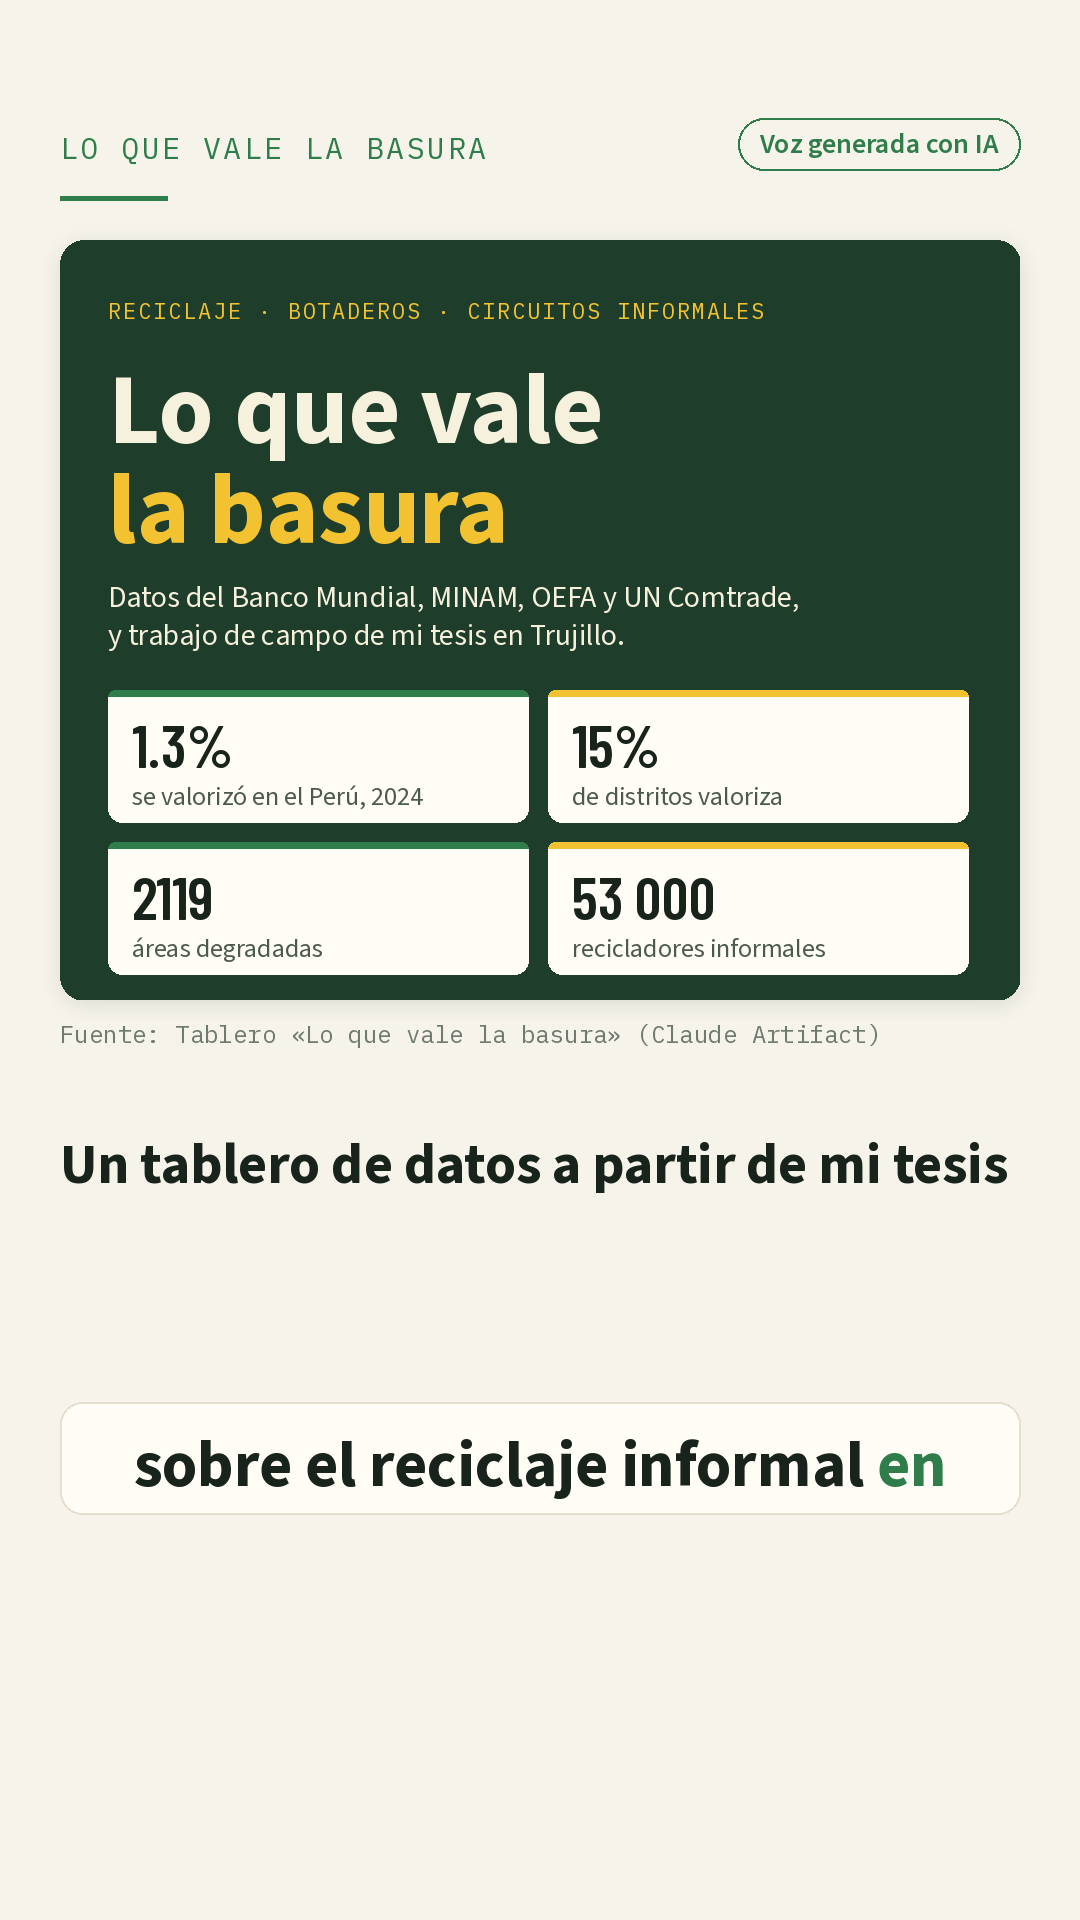
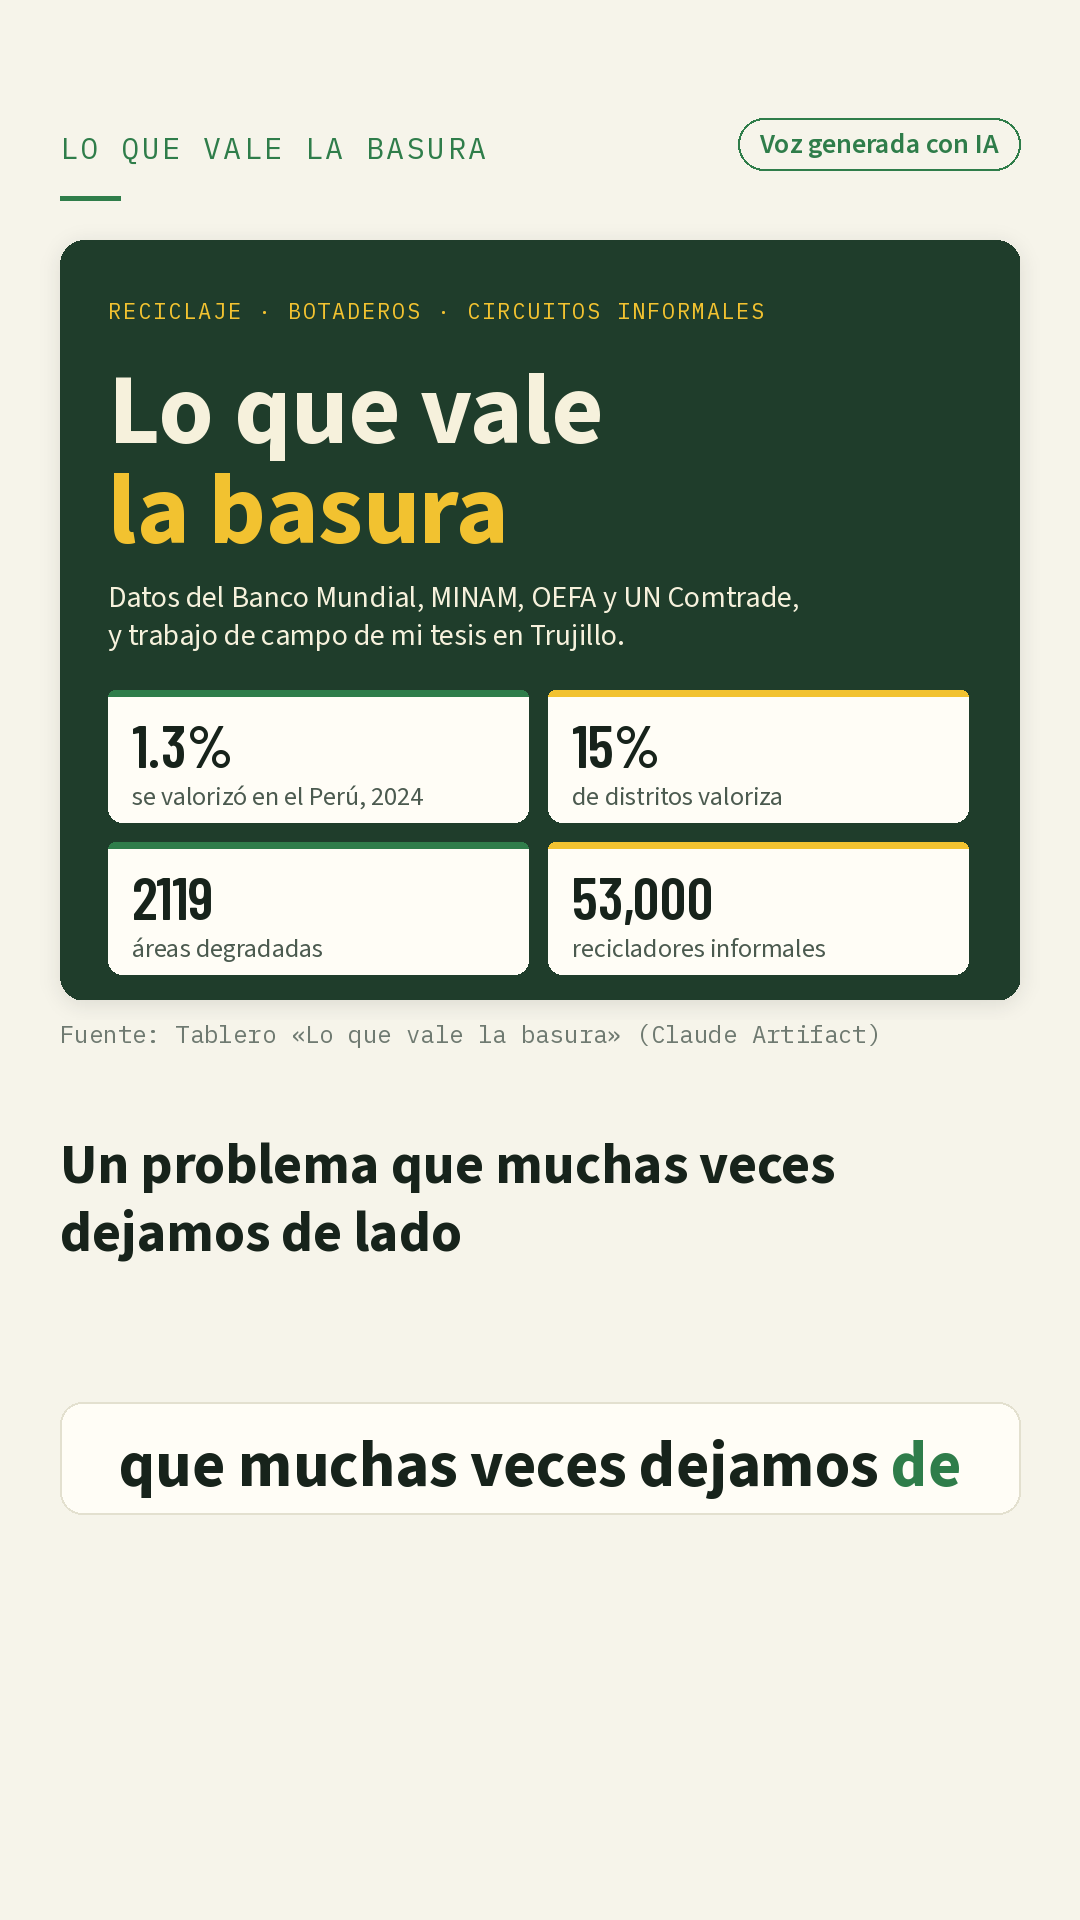
Reel: guion más breve en el orden del tablero, sin cortes al inicio de las frases, barras de generación mundial

Changed region(s): [[0.0611, 0.5938, 0.9472, 0.6562], [0.0917, 0.75, 0.8861, 0.7812], [0.5806, 0.4375, 0.6417, 0.5]]

diff --git a/reel/hacer_video.py b/reel/hacer_video.py
@@ -29,7 +29,7 @@ FUENTES = os.path.join(AQUI, "recursos", "fuentes")
 
 ANCHO, ALTO, FPS = 1080, 1920, 30
 MARGEN = 60
-CIERRE = 3.5  # segundos de la tarjeta final después de la narración
+CIERRE = 5.5  # segundos de la tarjeta final después de la narración (el reel debe durar al menos 45 s)
 URL_TABLERO = "claude.ai/artifact/6bTVbbocVNX5enTreJr638"
 
 # Colores del tablero (tema claro)
@@ -229,6 +229,7 @@ class Visuales:
         self.top_bot = sorted(bot.items(), key=lambda kv: -kv[1])[:3]
         self.bot_total = int(sum(bot.values()))
         self.peru_pais = paises["PER"]
+        self.mundo_reg = {r["region"]: r for r in leer("mundo_regiones")}
         hierro = [r for r in leer("precios_mensuales") if r["material"] == "Hierro y acero"]
         self.hierro = sorted(((r["mes"], float(r["usd_por_kg"]) * 1000) for r in hierro))
 
@@ -258,7 +259,7 @@ class Visuales:
                fill=mezclar(VERDE_OSCURO, CREMA, a))
         # Tarjetas de indicadores del tablero, una tras otra
         kpis = [("1.3%", "se valorizó en el Perú, 2024"), ("15%", "de distritos valoriza"),
-                ("2119", "áreas degradadas"), ("53 000", "recicladores informales")]
+                ("2119", "áreas degradadas"), ("53,000", "recicladores informales")]
         cw, ch, gap = (self.w - 96 - 24) // 2, 132, 20
         for i, (v, txt) in enumerate(kpis):
             b = suave((t - 0.9 - 0.35 * i) / 0.5)
@@ -320,6 +321,31 @@ class Visuales:
                               self.top_bot, lambda v: f"{v:.0f}", self.bot_max, f"{self.bot_max:.0f}")
         return img
 
+    def barras_generacion(self, t, dur):
+        img, d = self.lienzo()
+        self.titulo(d, "Basura que genera el mundo", "Millones de toneladas de basura municipal al año")
+        m = self.mundo_reg["Mundo"]
+        filas = [("2022 · estimación", float(m["generacion_2022_t"]) / 1e6, VERDE, False),
+                 ("2050 · proyección", float(m["generacion_2050_t"]) / 1e6, BARRA, True)]
+        maximo = filas[1][1]
+        for i, (txt, v, color, punteada) in enumerate(filas):
+            a = suave((t - 0.3 - 0.6 * i) / 1.4)
+            y = 220 + i * 230
+            d.text((32, y), txt, font=fuente("semi", 36), fill=TINTA)
+            largo = max(10, int((self.w - 64) * 0.72 * v / maximo * a))
+            d.rounded_rectangle((32, y + 60, 32 + largo, y + 150), radius=10, fill=color)
+            if punteada:  # la proyección se distingue del dato con rayas
+                for x in range(32 - 90, 32 + largo, 22):
+                    d.line([(max(32, x), y + 60 + max(0, 32 - x)), (min(32 + largo, x + 90), y + 150 - max(0, x + 90 - 32 - largo))],
+                           fill=PANEL, width=4)
+            d.text((32 + largo + 16, y + 70), f"{v * a:,.0f}", font=fuente("num", 64), fill=TINTA)
+        b = suave((t - 2.0) / 0.6)
+        if b > 0:
+            crece = float(m["crecimiento_2050_pct"])
+            d.text((32, 640), f"Se proyecta un {crece:.0f}% más hacia 2050.", font=fuente("semi", 32),
+                   fill=mezclar(PANEL, TINTA_2, b))
+        return img
+
     def barras_recicladores(self, t, dur):
         img, d = self.lienzo()
         self.titulo(d, "¿Quién recicla en el Perú?", "Personas que trabajan en el reciclaje")
@@ -332,7 +358,7 @@ class Visuales:
             d.text((32, y), txt, font=fuente("semi", 36), fill=TINTA)
             largo = int((self.w - 64) * 0.78 * v / maximo * a)
             d.rounded_rectangle((32, y + 60, 32 + max(10, largo), y + 150), radius=10, fill=color)
-            d.text((32 + max(10, largo) + 16, y + 70), f"{v * a:,.0f}".replace(",", " "), font=fuente("num", 64),
+            d.text((32 + max(10, largo) + 16, y + 70), f"{v * a:,.0f}", font=fuente("num", 64),
                    fill=TINTA)
         b = suave((t - 2.0) / 0.6)
         if b > 0:
@@ -504,13 +530,19 @@ def capa_textos(escena, alfa):
     if escena["fuente"]:
         d.text((MARGEN, Y_FUENTE), f"Fuente: {escena['fuente']}", font=fuente("mono", 24), fill=TENUE + (a,))
     if escena["cifra"]:
-        d.text((MARGEN, Y_CIFRA), escena["cifra"], font=fuente("num", 150), fill=TINTA + (a,))
+        tam = 150  # la cifra se achica si no cabe en el ancho
+        while tam > 70 and d.textlength(escena["cifra"], font=fuente("num", tam)) > ANCHO - 2 * MARGEN:
+            tam -= 6
+        d.text((MARGEN, Y_CIFRA + (150 - tam)), escena["cifra"], font=fuente("num", tam), fill=TINTA + (a,))
         y = Y_CIFRA + 165
         for linea in envolver(d, escena["etiqueta"], fuente("semi", 40), ANCHO - 2 * MARGEN)[:2]:
             d.text((MARGEN, y), linea, font=fuente("semi", 40), fill=TINTA_2 + (a,))
             y += 50
     elif escena["etiqueta"]:
-        d.text((MARGEN, Y_CIFRA + 40), escena["etiqueta"], font=fuente("negrita", 56), fill=TINTA + (a,))
+        y = Y_CIFRA + 40
+        for linea in envolver(d, escena["etiqueta"], fuente("negrita", 56), ANCHO - 2 * MARGEN)[:2]:
+            d.text((MARGEN, y), linea, font=fuente("negrita", 56), fill=TINTA + (a,))
+            y += 68
     return img
 
 
@@ -544,6 +576,9 @@ def main():
 
     guion = json.load(open("guion.json", encoding="utf-8"))
     escenas = json.load(open(f"{s}/escenas.json", encoding="utf-8"))
+    # Los textos en pantalla se toman del guion actual: se pueden corregir sin volver a generar la voz
+    for e, g in zip(escenas, guion["escenas"]):
+        e.update({k: g[k] for k in ("cifra", "etiqueta", "visual", "fuente")})
     reel_wav = f"{s}/reel.wav"
     dur_audio = sf.info(reel_wav).duration
     total = dur_audio + CIERRE

diff --git a/reel/voz.py b/reel/voz.py
@@ -36,7 +36,7 @@ MODELO_TTS = "mlx-community/Qwen3-TTS-12Hz-0.6B-Base-8bit"
 MODELO_ASR = "mlx-community/whisper-large-v3-turbo"
 WER_MAX = 0.25
 INTENTOS = 3
-PAUSA = 0.3  # segundos de silencio entre escenas
+PAUSA = 0.6  # segundos de silencio entre escenas: con menos, el reel suena apurado
 SILENCIO_INICIO = 0.5  # segundos antes de la primera escena
 PRIMERA_PROB_MIN = 0.9  # Qwen3-TTS a veces se come el inicio de la primera palabra
 
@@ -56,8 +56,9 @@ def transcribir(ruta, palabras=False):
     return (r["text"].strip(), r["segments"]) if palabras else r["text"].strip()
 
 
-def recortar(audio, sr, umbral=0.02, margen=0.08, fundido=0.015):
-    """Quita el silencio del inicio y del final, y suaviza la entrada y la salida."""
+def recortar(audio, sr, umbral=0.01, margen=0.25, fundido=0.01):
+    """Quita el silencio del inicio y del final, y suaviza la entrada y la salida. El umbral bajo y el margen
+    amplio evitan comerse el comienzo de una palabra que empieza suave."""
     ventana = int(0.01 * sr)
     energia = np.sqrt(np.convolve(audio ** 2, np.ones(ventana) / ventana, mode="same"))
     voz = np.where(energia > umbral)[0]
